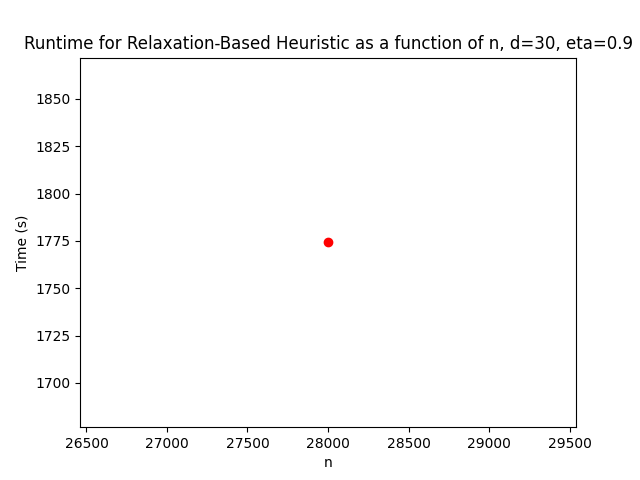
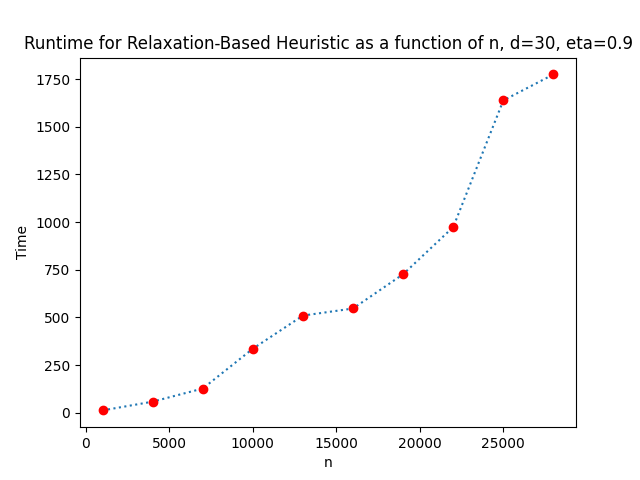
benchmarking

diff --git a/src/plot_from_log.py b/src/plot_from_log.py
@@ -2,8 +2,14 @@ import benchmarking.utils
 import data.loading
 from meb import geometry
 
-n = 10000
-d = [10+10*i for i in range(10)]
+
+n = [1000 + 3000*i for i in range(10)]
+d = 30
+
+#n = 10000
+#d = [10+10*i for i in range(10)]
+
+
 eta = 0.9
 
 func_names = {
@@ -13,13 +19,13 @@ func_names = {
         "shenmaier": "Shenmaier's Approximation"
     }
 
-filep = r"benchmarks/relaxation_heuristic/normal/func_d_n10000_eta0p9_normal"
+filep = r"benchmarks/relaxation_heuristic/normal/func_n_d30_eta0p9_normal"
 func_name = filep.split("/")[1]
 
 times = benchmarking.utils.get_times_from_log(filepath=r"{}.log".format(filep))
 title = benchmarking.utils.get_title(func_name, n, d, eta)
 benchmarking.utils.plot_times(
-        x_axis=d,
+        x_axis=n,
         times=times,
         xlabel="n",
         ylabel="Time",

diff --git a/src/mebwo_alg_benchmarking.py b/src/mebwo_alg_benchmarking.py
@@ -47,7 +47,7 @@ if msg == "y":
     for func_name in confirmed_funcs:
         for data_type in confirmed_data:
             if param_types["n"]:
-                n = [1000 + 3000*i for i in range(10) if 1000+3000*i > 25000]
+                n = [1000 + 3000*i for i in range(10)]
                 d = 30
                 eta = 0.9
 
@@ -82,7 +82,7 @@ if msg == "y":
             
             if param_types["d"]:
                 n = 10000
-                d = [10 + 10*i for i in range(10) if 10+10*i > 60]
+                d = [10 + 10*i for i in range(10)]
                 eta = 0.9
 
                 if func_name == "relaxation_heuristic":
